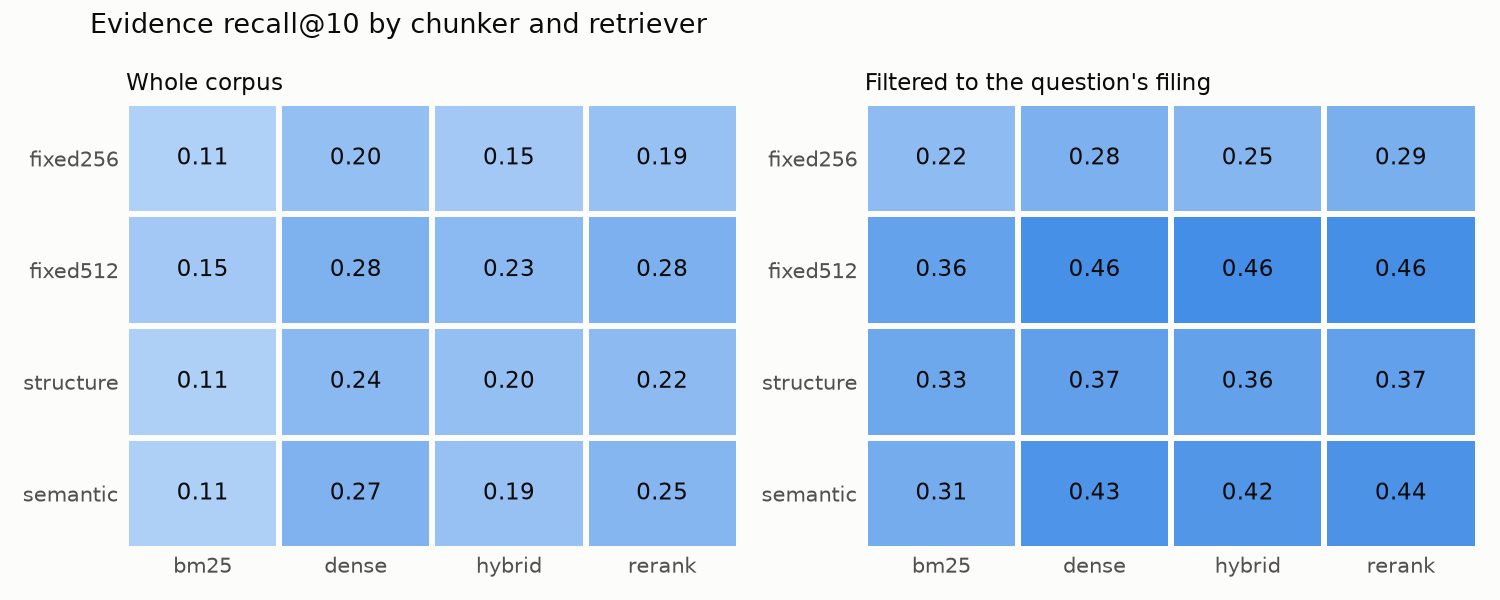
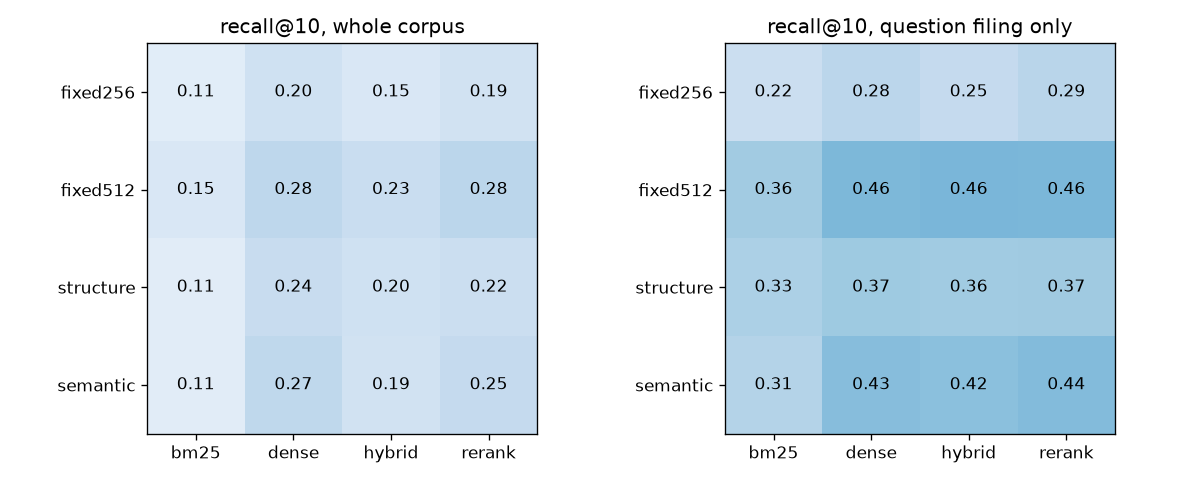
plain heatmap

diff --git a/evaluate.py b/evaluate.py
@@ -5,7 +5,6 @@ from difflib import SequenceMatcher
 import matplotlib.pyplot as plt
 import numpy as np
 import pandas as pd
-from matplotlib.colors import LinearSegmentedColormap
 
 from chunk import STRATEGIES, documents
 from data import load_questions
@@ -16,8 +15,6 @@ KS = (1, 5, 10, 20)
 METRICS = [f"recall@{k}" for k in KS] + ["mrr@10", "ndcg@10", "filing@10"]
 SCOPES = ("corpus", "doc")
 DISCOUNTS = 1 / np.log2(np.arange(2, 12))
-SURFACE, INK, MUTED = "#fcfcfb", "#0b0b0b", "#52514e"
-BLUES = LinearSegmentedColormap.from_list("blues", ["#cde2fb", "#9ec5f4", "#6da7ec", "#3987e5", "#256abf", "#184f95", "#0d366b"])
 
 
 def locate(text, page_starts, page, evidence):
@@ -79,25 +76,17 @@ def score(ranking, relevant, gains):
 
 
 def heatmap(summary):
-    fig, axes = plt.subplots(1, 2, figsize=(10, 4), facecolor=SURFACE)
-    titles = {"corpus": "Whole corpus", "doc": "Filtered to the question's filing"}
+    fig, axes = plt.subplots(1, 2, figsize=(10, 4))
     for ax, scope in zip(axes, SCOPES):
         grid = summary[summary.scope == scope].pivot(index="chunker", columns="retriever", values="recall@10").loc[STRATEGIES, list(RETRIEVERS)]
-        values = grid.to_numpy()
-        ax.pcolormesh(values, cmap=BLUES, vmin=0, vmax=1, edgecolors=SURFACE, linewidth=2)
-        for (r, c), v in np.ndenumerate(values):
-            ax.text(c + 0.5, r + 0.5, f"{v:.2f}", ha="center", va="center", fontsize=11, color="white" if v > 0.55 else INK)
-        ax.set_xticks(np.arange(values.shape[1]) + 0.5, grid.columns)
-        ax.set_yticks(np.arange(values.shape[0]) + 0.5, grid.index)
-        ax.invert_yaxis()
-        ax.tick_params(length=0, labelcolor=MUTED)
-        ax.set_facecolor(SURFACE)
-        ax.set_title(titles[scope], color=INK, fontsize=11, loc="left")
-        for spine in ax.spines.values():
-            spine.set_visible(False)
-    fig.suptitle("Evidence recall@10 by chunker and retriever", color=INK, fontsize=13, x=0.06, ha="left")
+        ax.imshow(grid, cmap="Blues", vmin=0, vmax=1)
+        for (r, c), v in np.ndenumerate(grid.to_numpy()):
+            ax.text(c, r, f"{v:.2f}", ha="center", va="center")
+        ax.set_xticks(range(grid.shape[1]), grid.columns)
+        ax.set_yticks(range(grid.shape[0]), grid.index)
+        ax.set_title(f"recall@10, {'whole corpus' if scope == 'corpus' else 'question filing only'}")
     fig.tight_layout()
-    fig.savefig("results/heatmap.png", dpi=150, facecolor=SURFACE)
+    fig.savefig("results/heatmap.png", dpi=120)
 
 
 def main():
